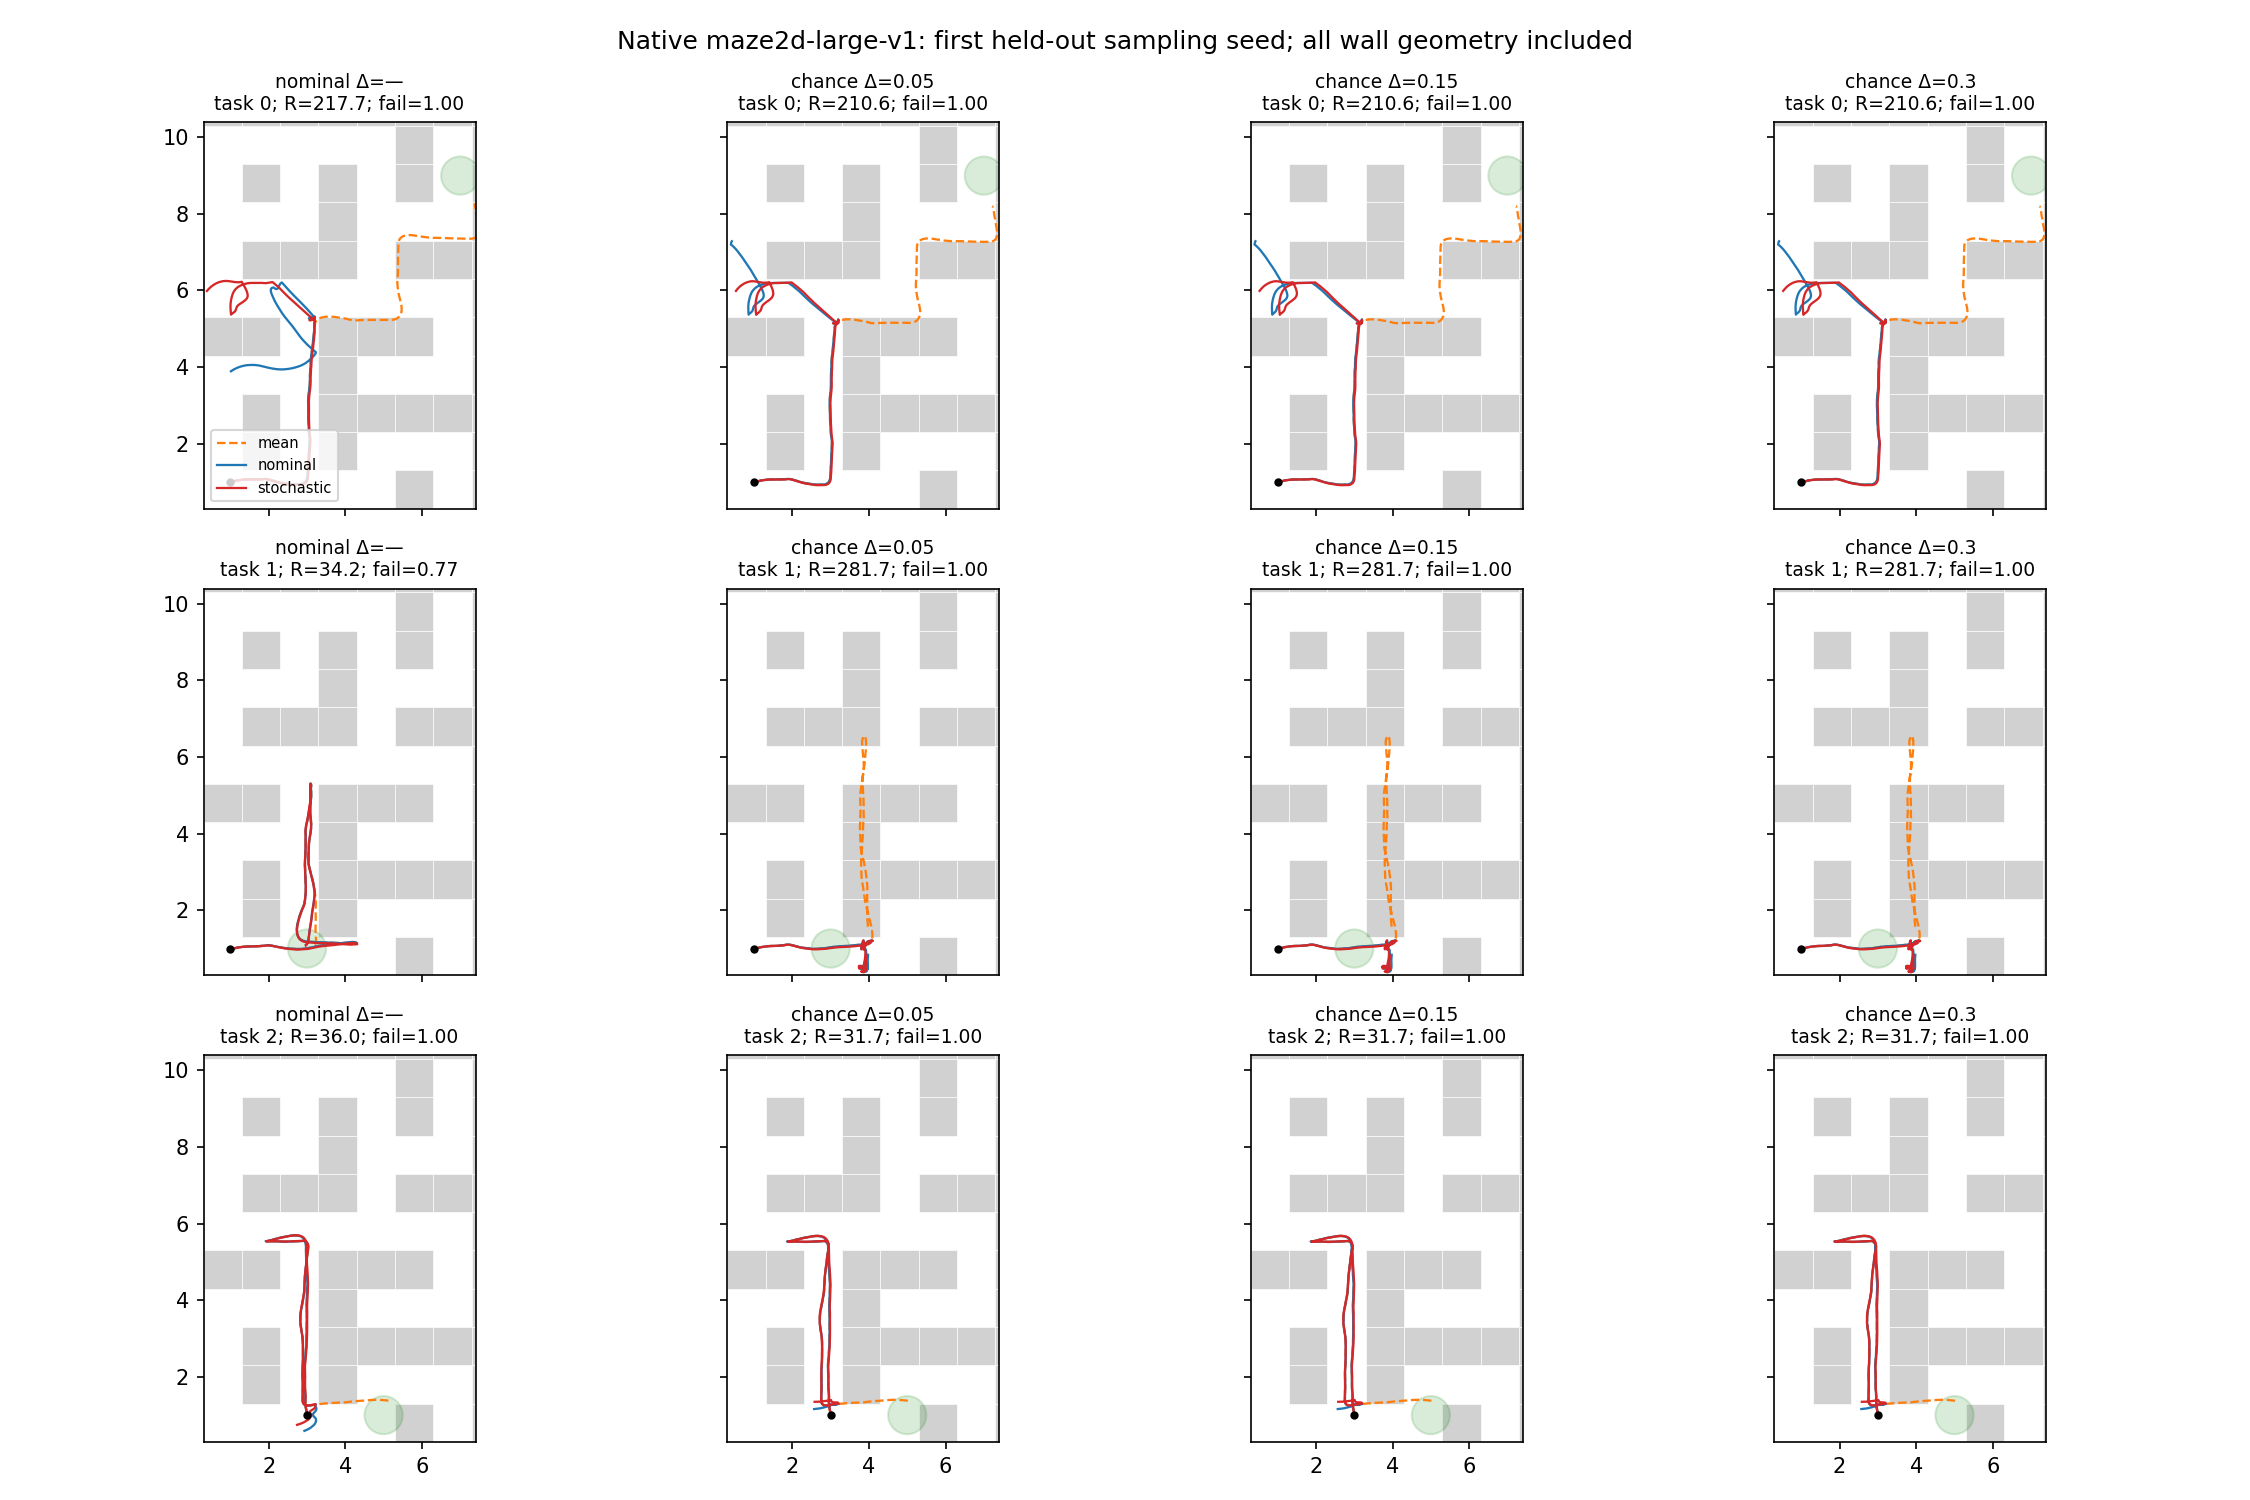
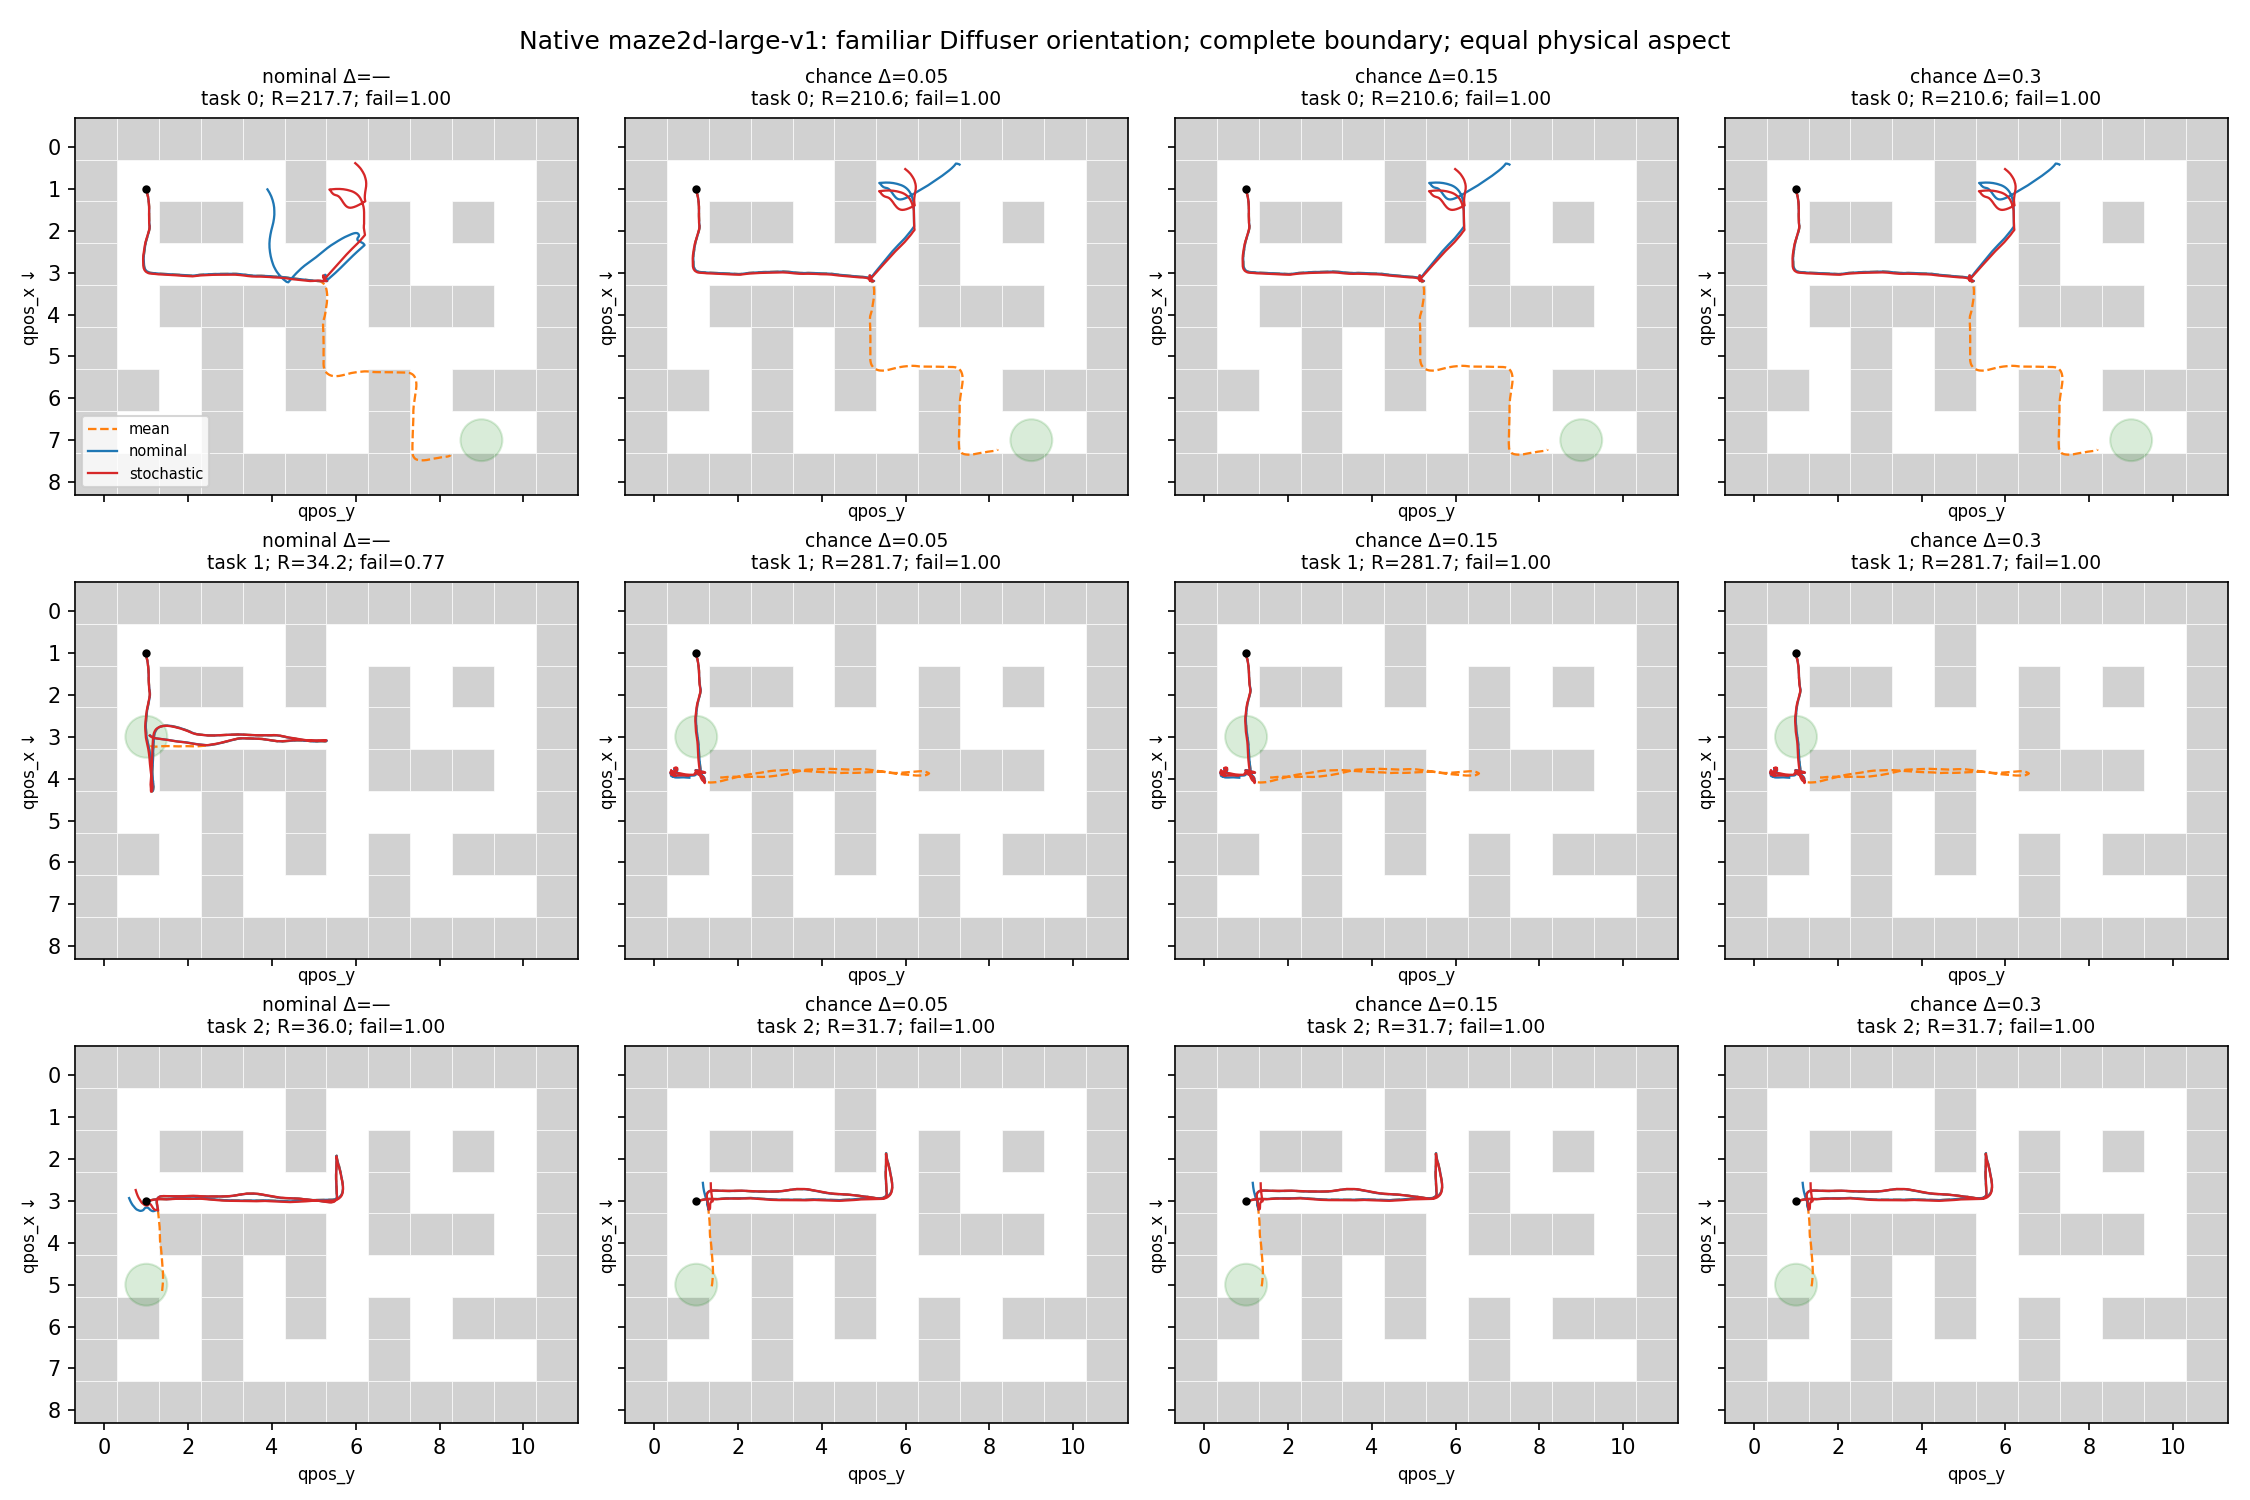
Verify native Large maze identity and restore familiar full-map orientation

diff --git a/maze2d_chance/report.py b/maze2d_chance/report.py
@@ -19,14 +19,14 @@ def main():
   for task in range(3):
    ax=axes[task,col];i=task*manifest['seeds'];r=next(r for r in rows if r['method']==method and r['budget']==b and r['task']==task and r['seed']==manifest['seed_base'])
    p=np.load(out/f'{method}_{b}_{i}_rollouts.npz')
-   for center in ch.centers:ax.add_patch(Rectangle(center.numpy()-.5,1.,1.,facecolor='.82',edgecolor='white',lw=.3))
+   for center in ch.centers:ax.add_patch(Rectangle(center.numpy()[::-1]-.5,1.,1.,facecolor='.82',edgecolor='white',lw=.3))
    for key,color,style in [('mean','tab:orange','--'),('nominal','tab:blue','-'),('stochastic','tab:red','-')]:
-    path=p[key];ax.plot(path[:,0],path[:,1],style,color=color,lw=1.1,label=key)
-   goal=TASKS[task][1];start=TASKS[task][0];ax.add_patch(Circle(goal,.5,color='green',alpha=.15));ax.plot(*start[:2],'ko',ms=3)
-   ax.set_aspect('equal',adjustable='box');ax.set_xlim(.3,7.4);ax.set_ylim(.3,10.4);ax.set_title(f'{method} Δ={b if b>=0 else "—"}\ntask {task}; R={r["predicted_risk"]:.1f}; fail={r["failure_rate"]:.2f}',fontsize=9)
- axes[0,0].legend(fontsize=7,loc='lower left');fig.suptitle('Native maze2d-large-v1: first held-out sampling seed; all wall geometry included',fontsize=12)
+    path=p[key];ax.plot(path[:,1],path[:,0],style,color=color,lw=1.1,label=key)
+   goal=TASKS[task][1];start=TASKS[task][0];ax.add_patch(Circle(goal[::-1],.5,color='green',alpha=.15));ax.plot(*start[:2][::-1],'ko',ms=3)
+   ax.set_aspect('equal',adjustable='box');ax.set_xlim(-.7,11.3);ax.set_ylim(8.3,-.7);ax.set_xlabel('qpos_y',fontsize=8);ax.set_ylabel('qpos_x ↓',fontsize=8);ax.set_title(f'{method} Δ={b if b>=0 else "—"}\ntask {task}; R={r["predicted_risk"]:.1f}; fail={r["failure_rate"]:.2f}',fontsize=9)
+ axes[0,0].legend(fontsize=7,loc='lower left');fig.suptitle('Native maze2d-large-v1: familiar Diffuser orientation; complete boundary; equal physical aspect',fontsize=12)
  fig.tight_layout();fig.savefig(out/'trajectories.png',dpi=150);plt.close(fig)
[2 lines of base64/hex data omitted]
  for r in summary:lines.append(f'| {r["method"]} / {r["budget"] if r["budget"]>=0 else "—"} | {r["nominal_healthy"]}/{r["plans"]} | {r["surrogate_accepted"]}/{r["plans"]} | {r["audit_accepted"]}/{r["plans"]} | {r["failure_rate"]:.3f} | {r["collision_rate"]:.3f} | {r["goal_failure_rate"]:.3f} | {r["mean_cost"]:.2f} | {r["sampling_batch_seconds"]:.2f} |')
  lines+=['', 'Rates in the overview are descriptive averages over the nine fixed plans per row; they are not pooled independent binomial estimates. Native action cost is sum of squared clipped controls; runtime is measured batch throughput on RTX4090, not single-plan latency. Per-plan runtime and path length are stored in `results.json`.','', '## Independent audit and calibration','', 'Each plan has a pointwise exact two-sided 95% Clopper–Pearson interval. Audit acceptance separately requires a one-sided exact upper bound <=Delta, with Bonferroni family alpha 0.05 over all 27 guided candidates, regardless of surrogate acceptance. No execution was used to revise its candidate. A surrogate rejection remains a rejection even if an audit happens to pass. False-safe rate among accepted candidates is undefined when none is accepted, rather than reported as zero.','', '| Method | Δ | Task | Seed | Surrogate union sum | Observed failures / n | Exact 95% failure CI | Healthy without noise |','|---|---:|---:|---:|---:|---:|---|---|']
  for r in rows:lines.append(f'| {r["method"]} | {r["budget"]} | {r["task"]} | {r["seed"]} | {r["predicted_risk"]:.4f} | {r["counts"]["failure"]}/{r["executions"]} | [{r["failure_exact_ci95"][0]:.4f}, {r["failure_exact_ci95"][1]:.4f}] | {not r["nominal"]["failure"]} |')

diff --git a/maze2d_chance/verify_map.py b/maze2d_chance/verify_map.py
@@ -1,0 +1,41 @@
+"""Read-only map verification and common-coordinate rendering; no executions."""
+from baseline import *
+from diffuser.datasets import load_environment
+from diffuser.utils.rendering import Maze2dRenderer
+from d4rl.pointmaze.maze_model import LARGE_MAZE,LARGE_MAZE_EVAL,parse_maze
+import matplotlib
+matplotlib.use('Agg')
+import matplotlib.pyplot as plt
+from matplotlib.patches import Rectangle
+
+native=gym.make('maze2d-large-v1').unwrapped
+legacy=load_environment('maze2d-large-v1')
+renderer=Maze2dRenderer('maze2d-large-v1')
+config=pickle.load(open(CHECKPOINT/'dataset_config.pkl','rb'))
+renderconfig=pickle.load(open(CHECKPOINT/'render_config.pkl','rb'))
+assert config._dict['env']=='maze2d-large-v1'
+assert np.array_equal(native.maze_arr,legacy.maze_arr)
+assert np.array_equal(native.maze_arr,renderer.env.maze_arr)
+assert np.array_equal(native.maze_arr,parse_maze(LARGE_MAZE))
+assert not np.array_equal(native.maze_arr,parse_maze(LARGE_MAZE_EVAL))
+# Verify EVERY native MuJoCo wall has its expected LARGE_MAZE cell index,
+# including the body-local physical qpos offset used in the original report.
+indices=np.argwhere(native.maze_arr==10)
+geoms=np.array([native.model.geom_pos[i,:2] for i in range(native.model.ngeom) if (native.model.geom_id2name(i) or '').startswith('wall_')])
+assert np.array_equal(geoms,indices+1.)
+centers=geoms-native.model.body_pos[1,:2]
+assert np.allclose(centers,indices-.2)
+sha=lambda a:hashlib.sha256(a.tobytes()).hexdigest()
+registration=gym.spec('maze2d-large-v1')
+evidence=dict(registration_id=registration.id,entry_point=registration.entry_point,registration_is_large_maze=registration._kwargs['maze_spec']==LARGE_MAZE,checkpoint_dataset=config._dict['env'],checkpoint_renderer_config=renderconfig._dict,array_shape=list(native.maze_arr.shape),wall_count=len(indices),array_sha256=sha(native.maze_arr),legacy_loader_exact_match=True,legacy_renderer_exact_match=True,is_LARGE_MAZE=True,is_LARGE_MAZE_EVAL=False,all_native_wall_geometries_match=True,native_body_offset=native.model.body_pos[1,:2].tolist(),physical_qpos_wall_centers='maze_indices - 0.2',original_display='horizontal qpos_x; vertical qpos_y increasing upward; boundary crop',corrected_display='horizontal qpos_y; vertical qpos_x increasing downward; full boundaries; equal physical aspect',legacy_display='horizontal (qpos_y+0.5)/12; vertical (qpos_x+0.5)/9 increasing downward; square normalized aspect')
+(ROOT/'results'/'map_verification.json').write_text(json.dumps(evidence,indent=2,default=str))
+fig,axes=plt.subplots(1,3,figsize=(15,5))
+# Legacy canonical cell display, then same cell mask read through the experiment,
+# then exact physical geoms in the same orientation. No new simulation.
+for ax,arr,title in [(axes[0],renderer.env.maze_arr,'Legacy RB Diffuser loader'),(axes[1],native.maze_arr,'Experiment native maze2d-large-v1')]:
+ ax.imshow(arr==10,cmap='Greys',vmin=0,vmax=1,origin='upper',extent=(-.5,11.5,8.5,-.5),interpolation='nearest');ax.set_title(title);ax.set_xlabel('maze second index / horizontal');ax.set_ylabel('maze first index / downward');ax.set_aspect('equal')
+ax=axes[2]
+for p in centers:ax.add_patch(Rectangle((p[1]-.5,p[0]-.5),1,1,facecolor='.35',edgecolor='white',lw=.4))
+ax.set_xlim(-.7,11.3);ax.set_ylim(8.3,-.7);ax.set_aspect('equal');ax.set_title('Verified physical geoms\ncorrected familiar orientation');ax.set_xlabel('qpos_y');ax.set_ylabel('qpos_x / downward')
+fig.suptitle('Exact same LARGE_MAZE array: 9 × 12; not LARGE_MAZE_EVAL',fontsize=14);fig.tight_layout();fig.savefig(ROOT/'results'/'map_verification.png',dpi=150)
+print(json.dumps(evidence,indent=2,default=str))

diff --git a/maze2d_chance/results/REPORT.md b/maze2d_chance/results/REPORT.md
@@ -6,6 +6,12 @@
 
 The source is slides 13–14 of `main.pptx`, inspected as the six extracted embedded PNGs in `slide_evidence/`.
 
+## Map verification
+
+The experiment and older RB Diffuser load the **exact same 9×12 LARGE_MAZE array**, verified against the installed D4RL registration, checkpoint dataset config, legacy loader and renderer, and every native wall geometry. It is not LARGE_MAZE_EVAL. Only the original image viewport cropped the outer walls; the native simulator, risk calculation, and hard execution audit included the full boundary throughout. The original figure made qpos_x horizontal and qpos_y vertical, with a cropped boundary; RB Diffuser instead plots qpos_y horizontally, qpos_x downward and normalizes both to a square. The corrected figure restores the familiar orientation and full boundary, while keeping equal physical aspect so circular goal regions remain circular. No trajectories or outcomes were regenerated. See `map_verification.json` and `map_verification.png`; the original is preserved as `trajectories_original_raw_axes.png`. The legacy bitmap adds +0.5 to normalized path coordinates; actual native wall centers in qpos coordinates are maze indices−0.2, which the corrected physical plot preserves.
+
+![Exact map comparison](map_verification.png)
+
 ## Frozen execution and protocol
 
[1 lines of base64/hex data omitted]

diff --git a/maze2d_chance/README.md b/maze2d_chance/README.md
@@ -43,3 +43,9 @@ Native MuJoCo contact dynamics remain authoritative during evaluation. The free
 local Gaussian model and its CDF constraints are approximations, so a surrogate
 union sum is not a universal safety bound. Rejection is distinct from generation
 quality; no accepted sample means the false-safe fraction is undefined.
+
+Map verification: `verify_map.py` checks exact array equality against the legacy
+loader/renderer, native registration and LARGE_MAZE, and every physical wall.
+See `results/map_verification.png` and `.json`. The corrected trajectory figure
+uses the familiar legacy orientation and complete boundary at equal physical
+aspect; only the original image viewport cropped walls, never the simulation.
